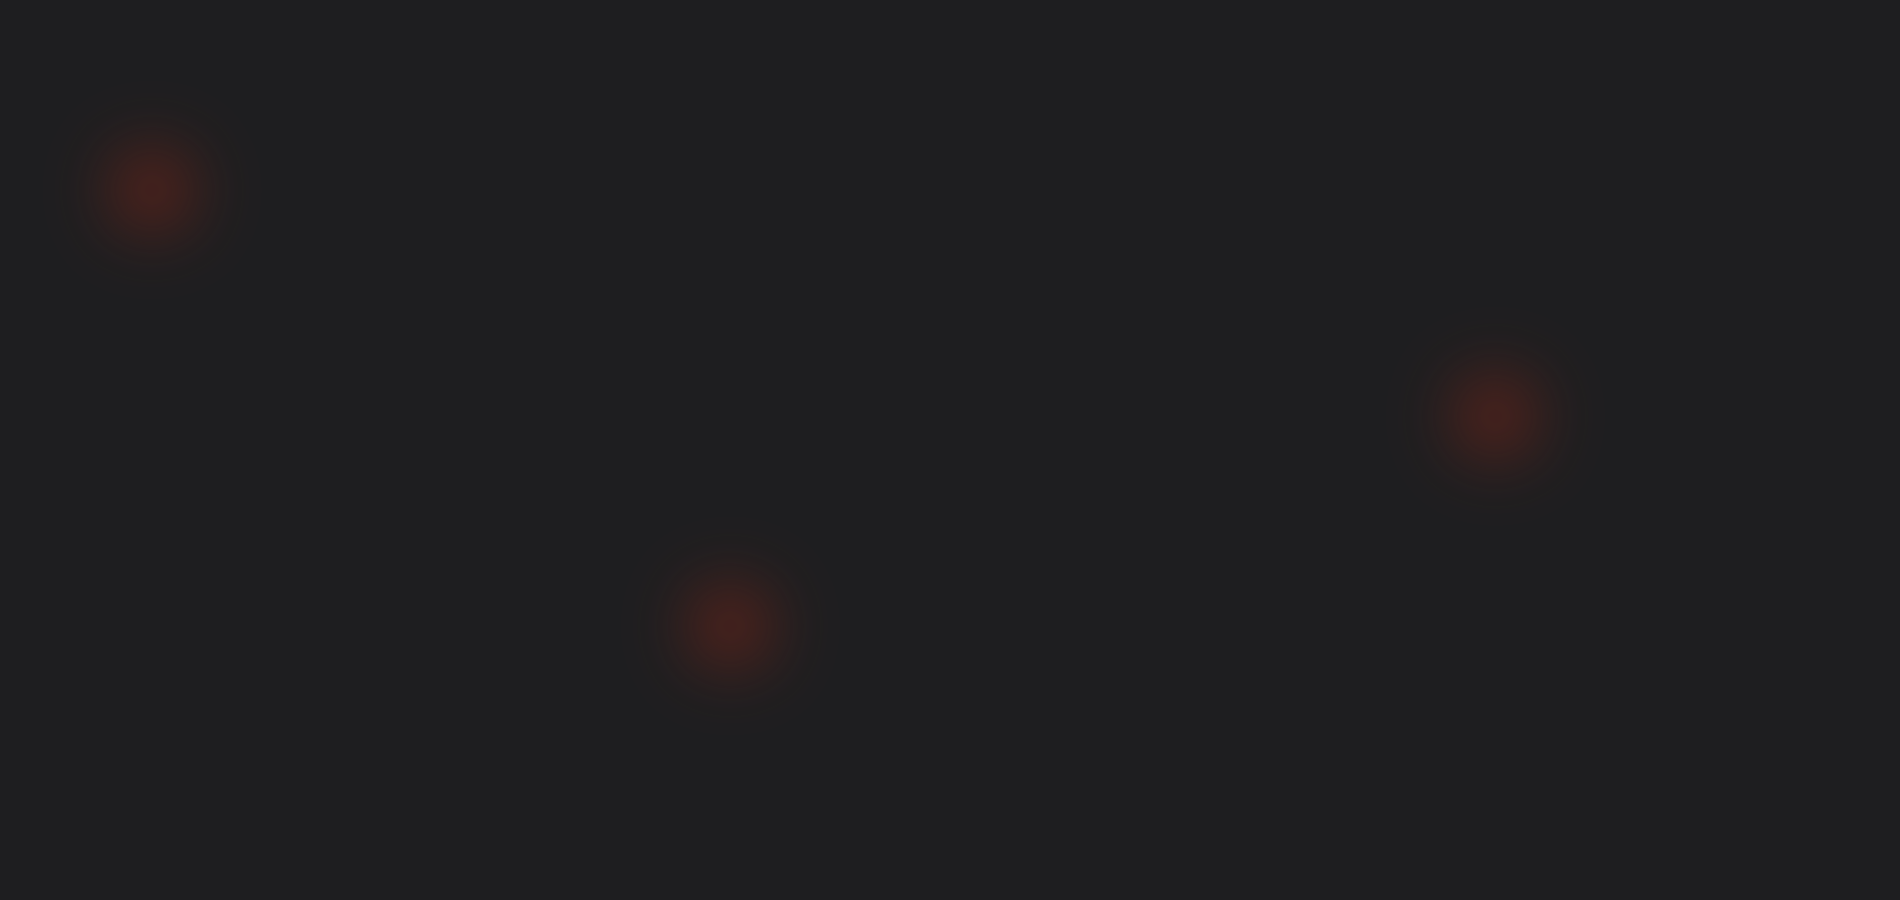
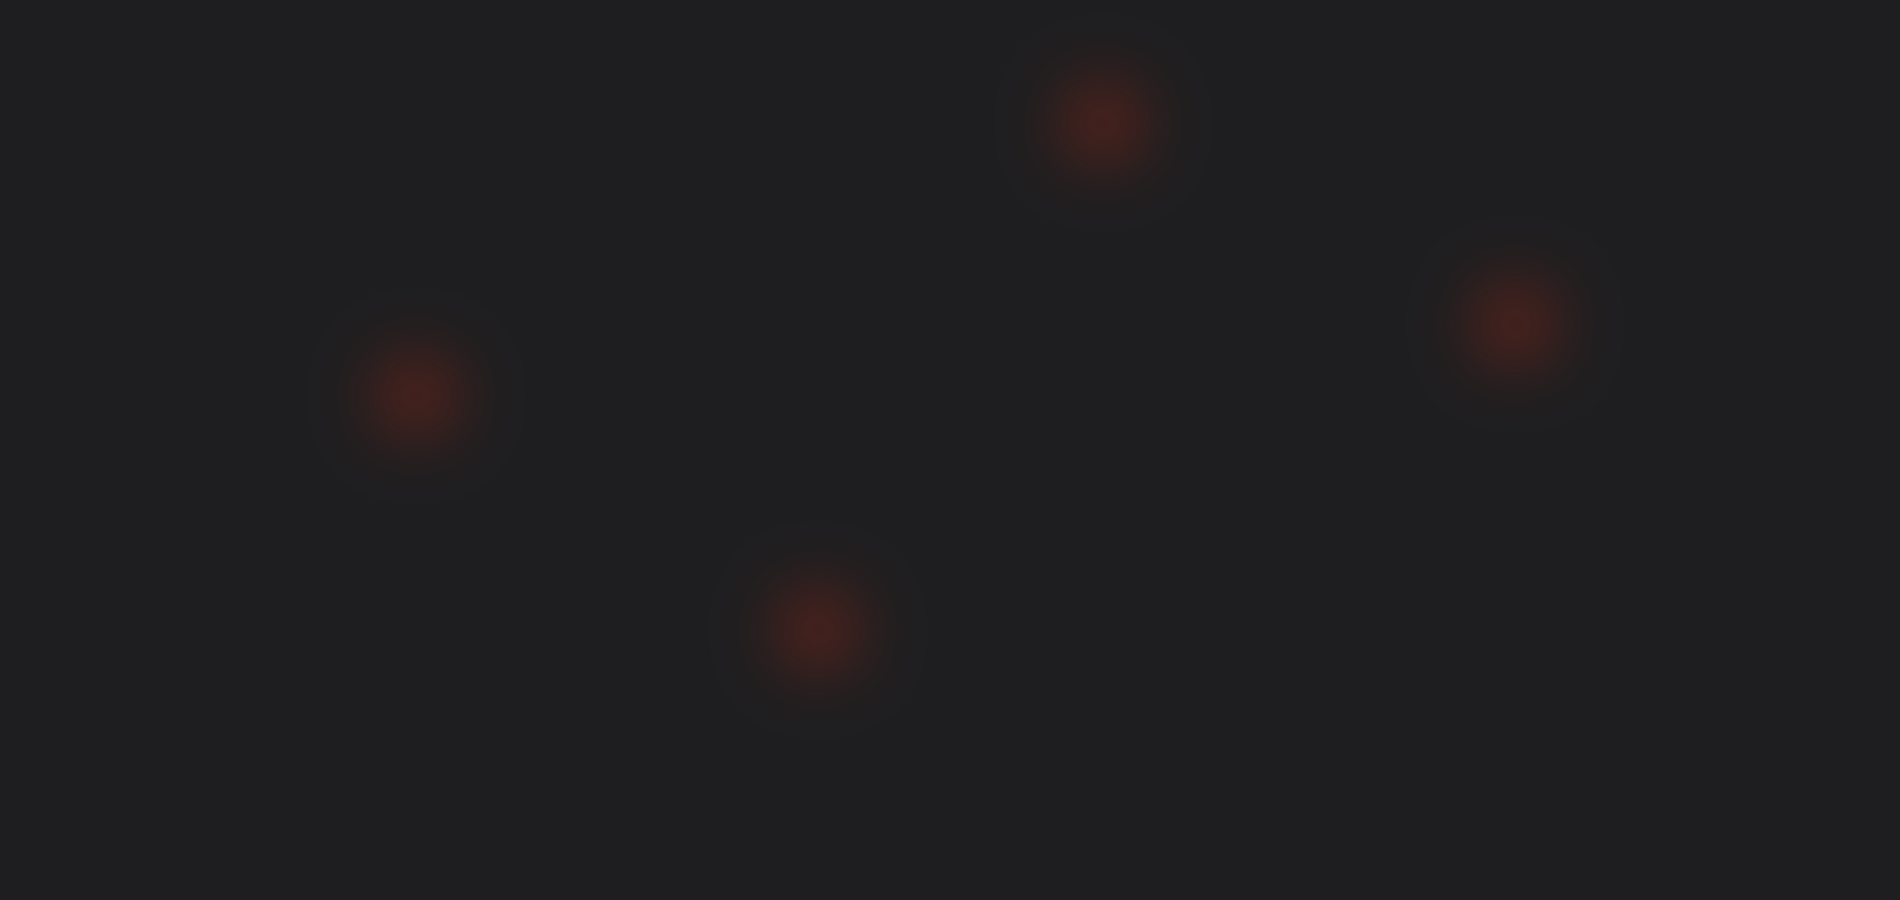
Remake #9
Изменил стиль Обложки.
Добавил новую картинку фона.
Поставил иконку на вкладку браузера

diff --git a/src/index.html b/src/index.html
@@ -4,6 +4,80 @@
 		<meta name="viewport" content="width=device-width, initial-scale=1" />
 		<link rel="stylesheet" href="css/style.css" />
 		<title>Fast wheels - твоя уверенность на дороге</title>
+
+		<link
+			rel="apple-touch-icon"
+			sizes="57x57"
+			href="icon/apple-icon-57x57.png"
+		/>
+		<link
+			rel="apple-touch-icon"
+			sizes="60x60"
+			href="icon/apple-icon-60x60.png"
+		/>
+		<link
+			rel="apple-touch-icon"
+			sizes="72x72"
+			href="icon/apple-icon-72x72.png"
+		/>
+		<link
+			rel="apple-touch-icon"
+			sizes="76x76"
+			href="icon/apple-icon-76x76.png"
+		/>
+		<link
+			rel="apple-touch-icon"
+			sizes="114x114"
+			href="icon/apple-icon-114x114.png"
+		/>
+		<link
+			rel="apple-touch-icon"
+			sizes="120x120"
+			href="icon/apple-icon-120x120.png"
+		/>
+		<link
+			rel="apple-touch-icon"
+			sizes="144x144"
+			href="icon/apple-icon-144x144.png"
+		/>
+		<link
+			rel="apple-touch-icon"
+			sizes="152x152"
+			href="icon/apple-icon-152x152.png"
+		/>
+		<link
+			rel="apple-touch-icon"
+			sizes="180x180"
+			href="icon/apple-icon-180x180.png"
+		/>
+		<link
+			rel="icon"
+			type="image/png"
+			sizes="192x192"
+			href="icon/android-icon-192x192.png"
+		/>
+		<link
+			rel="icon"
+			type="image/png"
+			sizes="32x32"
+			href="icon/favicon-32x32.png"
+		/>
+		<link
+			rel="icon"
+			type="image/png"
+			sizes="96x96"
+			href="icon/favicon-96x96.png"
+		/>
+		<link
+			rel="icon"
+			type="image/png"
+			sizes="16x16"
+			href="icon/favicon-16x16.png"
+		/>
+		<link rel="manifest" href="icon/manifest.json" />
+		<meta name="msapplication-TileColor" content="#ffffff" />
+		<meta name="msapplication-TileImage" content="icon/ms-icon-144x144.png" />
+		<meta name="theme-color" content="#ffffff" />
 	</head>
 
 	<body>
@@ -43,8 +117,8 @@
 				<div class="background">
 					<div class="Cover">
 						<div class="cover-wrapper">
-							<div class="text-On-Photo">
-								<div>
+							<div class="cover-content">
+								<div class="cover-text">
 									<h1>
 										FAST WHEELS - <br />
 										твоя уверенность на дороге!

diff --git a/src/css/style.css b/src/css/style.css
@@ -182,45 +182,37 @@ html {
 /*Тело*/
 
 .background {
-	/*background-image: url('../img/background.png');
+	background-image: url('../img/background.png');
 	background-size: contain;
-	background-repeat: repeat;*/
-	background-color: #1e1e20;
+	background-repeat: repeat;
+	/*background-color: #1e1e20;*/
 }
 
 /*Обложка*/
 
 .Cover {
-	height: 100vh;
-	width: 100vw;
-	padding: 100px 0;
+	height: 720px;
+	padding-top: 200px;
 	background: linear-gradient(rgba(0, 0, 0, 0.7), rgba(0, 0, 0, 0.7)),
 		url('../img/background-cover.png');
 	background-size: cover;
 	background-position: center 0;
-
-	display: table-cell;
-	vertical-align: middle;
 }
 
-.cover-wrapper {
-	width: 100%;
-}
-
-.text-On-Photo {
+.cover-content {
 	padding: 0 40px;
 	max-width: 1200px;
 	margin: auto;
 	color: #fff;
 }
 
-.text-On-Photo h1 {
+.cover-content h1 {
 	font-size: 52px;
 	font-style: italic;
 	font-weight: bold;
 }
 
-.text-On-Photo h2 {
+.cover-content h2 {
 	font-size: 22px;
 	font-weight: 100;
 	color: #bbc3c6;
@@ -235,15 +227,15 @@ html {
 }
 
 @media (max-width: 1200px) {
-	.text-On-Photo {
+	.cover-content {
 		width: 960px;
 	}
 
-	.text-On-Photo h1 {
+	.cover-content h1 {
 		font-size: 48px;
 	}
 
-	.text-On-Photo h2 {
+	.cover-content h2 {
 		font-size: 20px;
 	}
 
@@ -253,21 +245,21 @@ html {
 }
 
 @media (max-width: 960px) {
-	.text-On-Photo {
+	.cover-content {
 		width: 640px;
 	}
 }
 
 @media (max-width: 640px) {
-	.text-On-Photo {
+	.cover-content {
 		width: 100%;
 	}
 
-	.text-On-Photo h1 {
+	.cover-content h1 {
 		font-size: 30px;
 	}
 
-	.text-On-Photo h2 {
+	.cover-content h2 {
 		font-size: 18px;
 	}
 
@@ -277,7 +269,7 @@ html {
 }
 
 @media (max-width: 320px) {
-	.text-On-Photo {
+	.cover-content {
 		padding: 0 20px;
 	}
 }
@@ -751,7 +743,9 @@ thead,
 	}
 }
 
-/*Отзывы*/ /*Контакты*/
+/*Отзывы*/
+
+/*Контакты*/
 
 .Contacts {
 	height: 720px;
